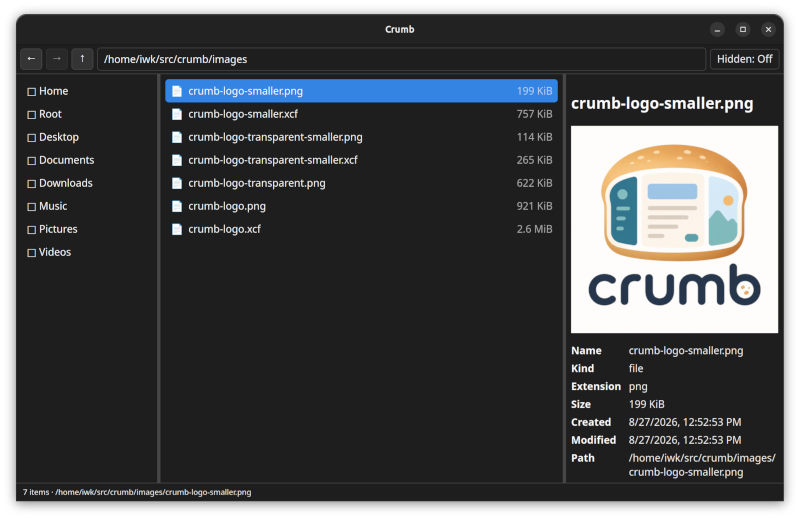
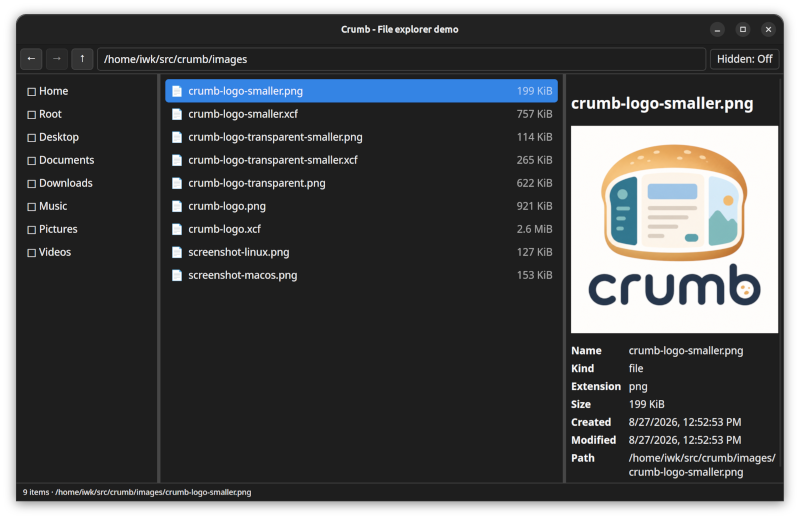
Verified changes on Linux. Fixed regression in scripts/build.ts. Changed screen-shot of Linux file-explorer

diff --git a/scripts/build.ts b/scripts/build.ts
@@ -30,9 +30,18 @@ const targets = {
   "macos-arm64": { bun: "bun-darwin-arm64" as const, addon: "@nativewindow/webview-darwin-arm64/native-window.darwin-arm64.node", output: outputPath(outputName, "macos-arm64") },
 };
 const target = targets[requested];
-if (!target) throw new Error(`Unknown build target: ${requested}`);
-if ((requested === "linux-x64" && process.platform !== "linux") || (requested === "macos-arm64" && process.platform !== "darwin")) {
-  throw new Error(`${requested} releases must be built on their corresponding operating system until native cross-compilation is proven.`);
+if (!target) {
+  console.error(`Unknown build target: ${requested}. Available targets: ${Object.keys(targets).join(", ")}.`);
+  process.exit(1);
+}
+// Release builds run on their own operating system until native cross-compilation is proven:
+// the other platform's addon is an optional dependency this machine never installed.
+const buildHost = requested === "macos-arm64" ? "darwin" : "linux";
+if (process.platform !== buildHost) {
+  const hostName = requested === "macos-arm64" ? "macOS arm64" : "Linux x64";
+  const localTarget = process.platform === "darwin" ? "macos-arm64" : "linux-x64";
+  console.error(`${requested} releases must be built on their corresponding operating system until native cross-compilation is proven. Build this target on ${hostName}, or run \`bun run build --target=${localTarget}\` here.`);
+  process.exit(1);
 }
 
 const html = await buildUiHtml(application);
